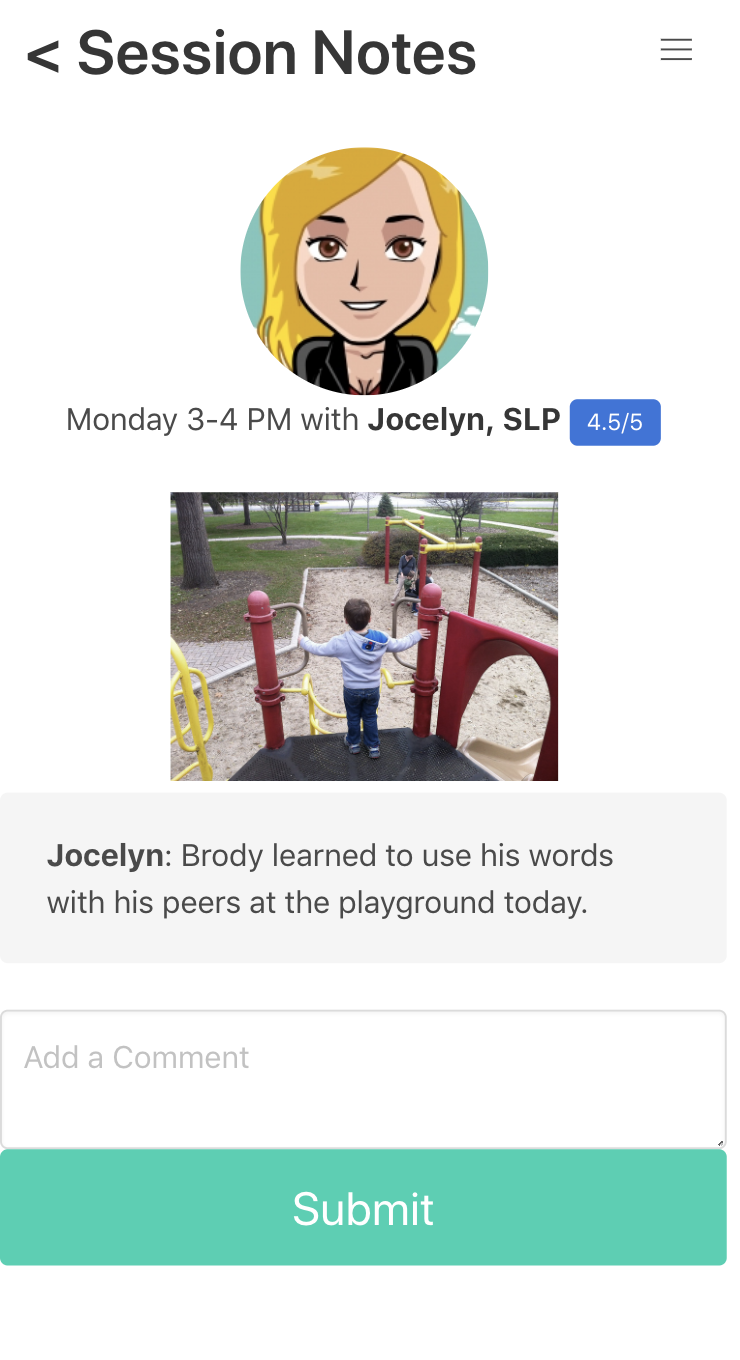
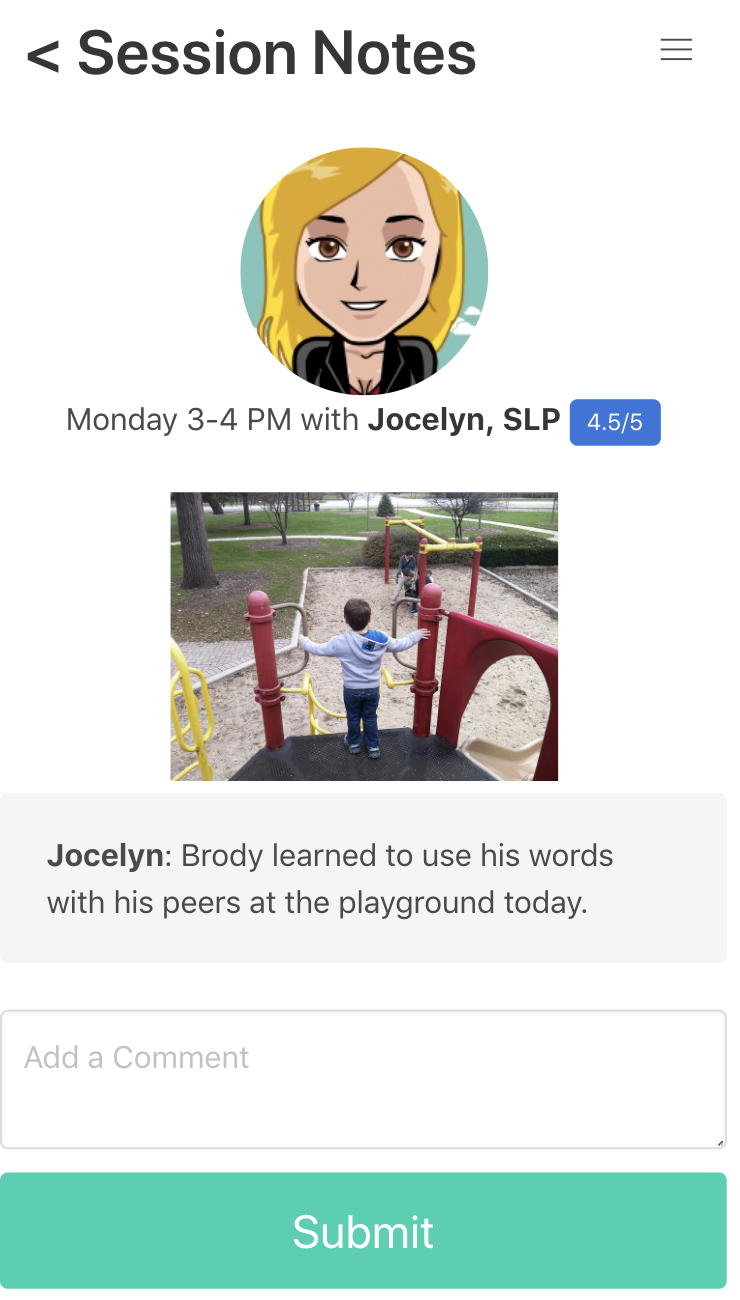
images resized. copy added

diff --git a/index.html b/index.html
@@ -18,10 +18,15 @@
   <body>
     <div class="container">
       <div class="columns">
-        <div class="column" style='text-align: center;'>
-          <p> Lorem Ipsum is simply dummy text of the printing. </p>
-          <p> It has survived not only five centuries, but also the. </p>
-          <p> It was popularised in the 1960s with the release of. </p>
+        <div class="column content" style='text-align: center;'>
+          <h2 class="title">EasyFind.Care</h2>
+          <div class="has-text-info" style="max-width: 400px; margin: 0 auto;">
+            We spent hours
+            but found it hard to match reviewed
+            professionals to work with our child on our schedule and budget.
+            For your kid, will you use 👇, if we build it?
+          </div>
+
         </div>
       </div>
     </div>

diff --git a/notes.html b/notes.html
@@ -51,10 +51,8 @@
             <textarea class="textarea" placeholder="Add a Comment" rows="2"></textarea>
           </div>
         </div>
-
-        <button class="button is-large is-fullwidth is-primary">Submit</button>
       </div>
-
+      <button class="button is-large is-fullwidth is-primary">Submit</button>
     </div>
   </body>
 </html>
